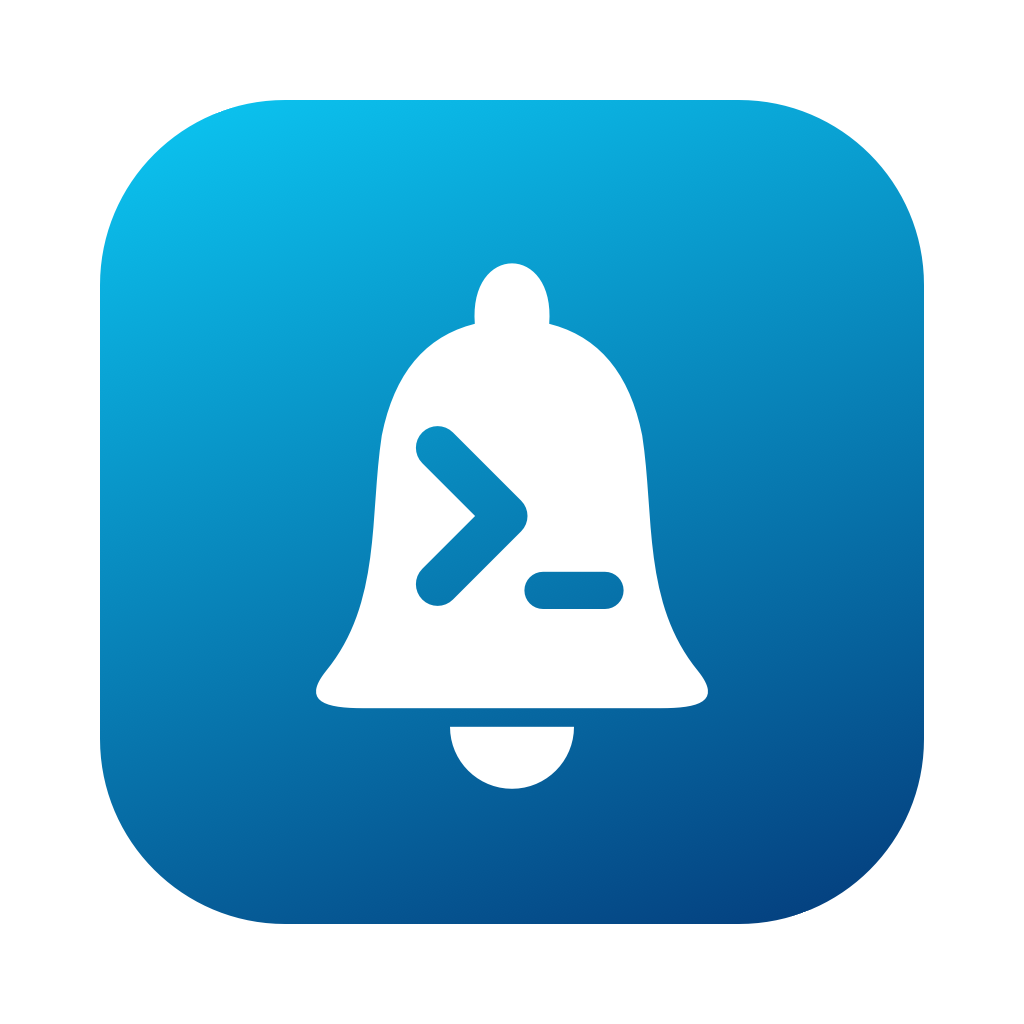
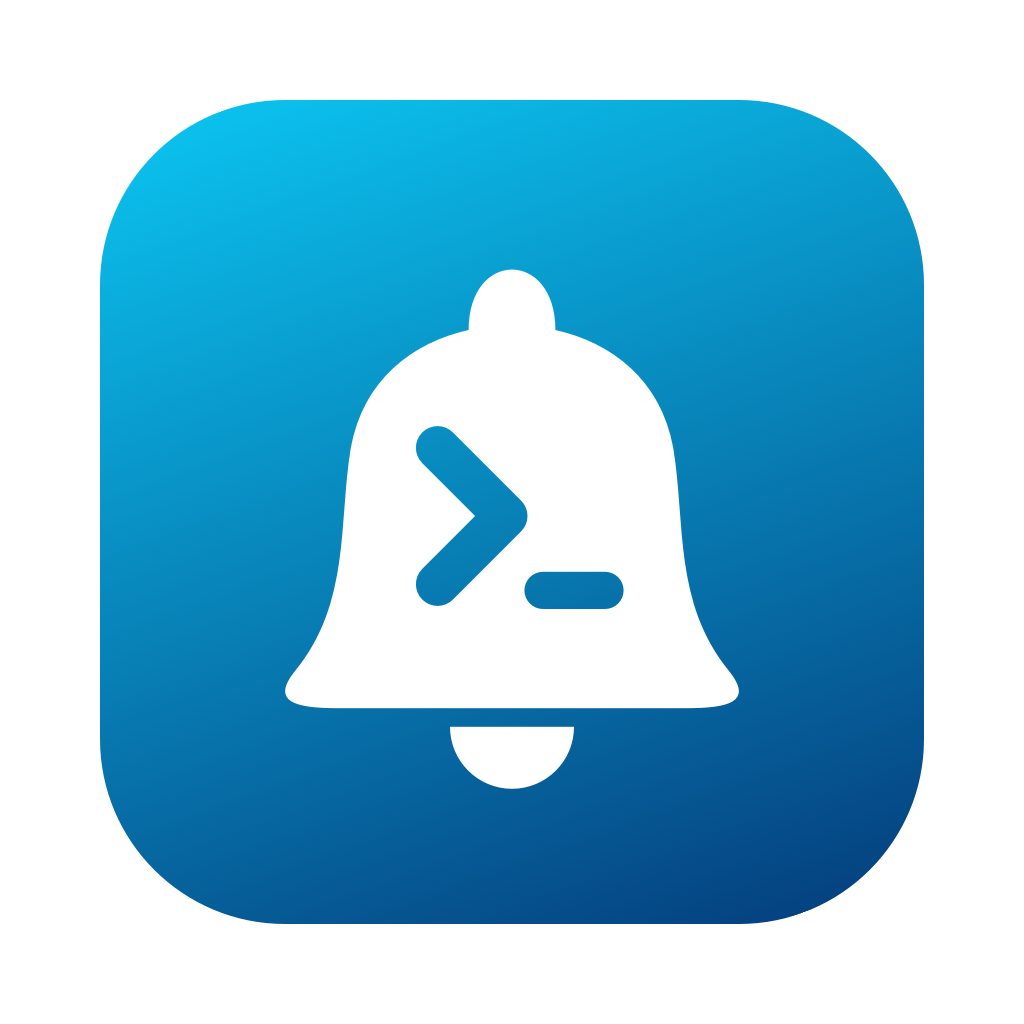
Integrate menu badge and improve Attention Center readability

diff --git a/native/AttentionCenter/AgentBell.swift b/native/AttentionCenter/AgentBell.swift
@@ -81,9 +81,14 @@ final class Model: ObservableObject {
         command(["return", text])
     }
 }
+private struct ContentHeightKey: PreferenceKey {
+    static var defaultValue: CGFloat = 100
+    static func reduce(value: inout CGFloat, nextValue: () -> CGFloat) { value = nextValue() }
+}
 struct AttentionView: View {
     @ObservedObject var model: Model
     @State private var showMore = false
+    @State private var contentHeight: CGFloat = 100
     var close: () -> Void
     func age(_ value: String) -> String {
         let f = ISO8601DateFormatter(); f.formatOptions = [.withInternetDateTime, .withFractionalSeconds]
@@ -94,77 +99,106 @@ struct AttentionView: View {
         if seconds < 86400 { return "\(seconds / 3600)h" }
         return "\(seconds / 86400)d"
     }
+    func visibleSummary(_ session: Session) -> String {
+        let summary = session.summary.trimmingCharacters(in: .whitespacesAndNewlines)
+        if summary == "Claude is waiting for your input" || summary == "Codex is waiting for your input" || summary == session.label { return "" }
+        return summary
+    }
     @ViewBuilder func section(_ name: String, _ sessions: [Session]) -> some View {
         HStack {
-            Text(name).tracking(0.8)
+            Text(name).tracking(0.6)
             Spacer()
             Text("\(sessions.count)").monospacedDigit()
-        }.font(.system(size: 10, weight: .semibold)).foregroundColor(.secondary).padding(.top, 7).accessibilityAddTraits(.isHeader)
+        }.font(.system(size: 11, weight: .semibold)).foregroundColor(.primary.opacity(0.65)).padding(.top, 9).padding(.bottom, 3).accessibilityAddTraits(.isHeader)
         ForEach(sessions) { session in
-            HStack(alignment: .top, spacing: 9) {
-                Image(systemName: session.symbol).foregroundColor(session.attention == "none" ? .secondary : .orange).frame(width: 14).padding(.top, 3).accessibilityHidden(true)
-                VStack(alignment: .leading, spacing: 3) {
-                    Text(session.project).font(.system(size: 13, weight: .medium)).lineLimit(1)
-                    Text("\(session.agent == "claude" ? "Claude" : "Codex") · \(session.label) · \(age(session.attention_at ?? session.finished_at ?? session.started_at))")
-                        .font(.caption).foregroundColor(.secondary)
-                    if !session.summary.isEmpty { Text(session.summary).font(.caption).foregroundColor(.secondary).lineLimit(2) }
-                }.frame(maxWidth: .infinity, alignment: .leading)
-                if let target = session.return_target {
-                    Button { model.returnTo(target); close() } label: {
-                        HStack(spacing: 3) { Text("Return"); Image(systemName: "arrow.up.forward") }
-                            .font(.system(size: 11, weight: .medium)).padding(.horizontal, 7).padding(.vertical, 5)
-                            .background(Color.primary.opacity(0.055), in: RoundedRectangle(cornerRadius: 6))
-                    }.buttonStyle(.plain)
-                        .help(target.capability == "exact_context" ? "Return to this session" : "Return capability: \(target.capability)")
-                        .accessibilityLabel("Return to \(session.project), \(session.agent)")
+            VStack(alignment: .leading, spacing: 6) {
+                HStack(spacing: 8) {
+                    Image(systemName: session.symbol).font(.system(size: 14)).foregroundColor(session.attention == "none" ? .secondary : .orange).accessibilityHidden(true)
+                    Text(session.project).font(.system(size: 14, weight: .semibold)).foregroundColor(.primary).lineLimit(1)
+                    Spacer(minLength: 8)
+                    if let target = session.return_target {
+                        Button { model.returnTo(target); close() } label: {
+                            HStack(spacing: 4) { Text("Return"); Image(systemName: "arrow.up.forward") }
+                                .font(.system(size: 12, weight: .medium)).padding(.horizontal, 9).padding(.vertical, 5)
+                                .background(Color.primary.opacity(0.07), in: RoundedRectangle(cornerRadius: 6))
+                        }.buttonStyle(.plain)
+                            .help(target.capability == "exact_context" ? "Return to this session" : "Return capability: \(target.capability)")
+                            .accessibilityLabel("Return to \(session.project), \(session.agent)")
+                    }
                 }
-            }.padding(.vertical, 5)
+                Text("\(session.agent == "claude" ? "Claude" : "Codex") · \(session.label) · \(age(session.attention_at ?? session.finished_at ?? session.started_at))")
+                    .font(.system(size: 12)).foregroundColor(.primary.opacity(0.65))
+                if !visibleSummary(session).isEmpty {
+                    Text(visibleSummary(session)).font(.system(size: 13)).foregroundColor(.primary.opacity(0.88)).lineSpacing(3).lineLimit(3)
+                        .frame(maxWidth: .infinity, alignment: .leading)
+                }
+            }.padding(10).frame(maxWidth: .infinity, alignment: .leading)
+                .background(Color.primary.opacity(0.035), in: RoundedRectangle(cornerRadius: 9))
         }
+    }
+    var header: some View {
+        HStack {
+            Text("AgentBell").font(.system(size: 15, weight: .semibold))
+            Spacer()
+        }
+    }
+    var sessionList: some View {
+        ScrollView {
+            VStack(alignment: .leading, spacing: 5) {
+                if !model.state.needs_you.isEmpty { section("NEEDS YOU", model.state.needs_you) }
+                if !model.state.working.isEmpty { section("WORKING", model.state.working) }
+                if !model.state.recent.isEmpty { section("RECENT", Array(model.state.recent.prefix(showMore ? model.state.recent.count : (model.state.recent_limit ?? 5)))) }
+                if model.state.needs_you.isEmpty && model.state.working.isEmpty && model.state.recent.isEmpty {
+                    VStack(spacing: 7) {
+                        Image(systemName: "checkmark.circle").font(.system(size: 23))
+                        Text("All caught up").font(.system(size: 13, weight: .medium))
+                        Text("Your agents will appear here as they work.").font(.caption)
+                    }.foregroundColor(.secondary).frame(maxWidth: .infinity).padding(.vertical, 25)
+                }
+                if model.state.recent.count > (model.state.recent_limit ?? 5) { Button(showMore ? "Show Less" : "Show More") { showMore.toggle() }.buttonStyle(.link) }
+            }.frame(maxWidth: .infinity, alignment: .leading)
+                .background(GeometryReader { geometry in
+                    Color.clear.preference(key: ContentHeightKey.self, value: geometry.size.height)
+                })
+        }.frame(height: min(390, max(100, contentHeight)))
+            .onPreferenceChange(ContentHeightKey.self) { contentHeight = $0 }
+    }
+    @ViewBuilder var diagnostics: some View {
+        if let error = model.failure { Text(error).font(.caption).foregroundColor(.secondary).lineLimit(3) }
+        if let error = model.notificationFailure { Text(error).font(.caption).foregroundColor(.secondary).lineLimit(3) }
+        if let error = model.state.storage_error, !error.isEmpty { Text("Session history unavailable").font(.caption).help(error) }
+    }
+    var footer: some View {
+        HStack {
+            Button { model.command(["attention-control", model.state.paused ? "resume" : "pause"]) } label: {
+                Image(systemName: model.state.paused ? "bell.slash" : "bell").font(.system(size: 14)).frame(width: 24, height: 24)
+            }.buttonStyle(.plain)
+                .help(model.state.paused ? "Resume notifications" : "Pause notifications")
+                .accessibilityLabel(model.state.paused ? "Resume notifications" : "Pause notifications")
+            Spacer()
+            Menu {
+                Button(model.state.paused ? "Resume Notifications" : "Pause Notifications") { model.command(["attention-control", model.state.paused ? "resume" : "pause"]) }
+                Button("Clear Recent") { model.command(["attention-control", "clear_recent"]) }.disabled(model.state.recent.isEmpty)
+                Divider()
+                Button("Open Config…") { model.command(["open-config"]) }
+                Button("Quit AgentBell") { NSApp.terminate(nil) }.keyboardShortcut("q")
+            } label: { Image(systemName: "gearshape").font(.system(size: 14)).frame(width: 24, height: 24) }
+            .menuStyle(.borderlessButton).menuIndicator(.hidden).fixedSize().help("AgentBell actions").accessibilityLabel("AgentBell actions")
+        }.font(.system(size: 11)).foregroundColor(.secondary).padding(.top, 3)
     }
     var body: some View {
         TimelineView(.periodic(from: .now, by: 15)) { _ in
             VStack(alignment: .leading, spacing: 6) {
-                HStack {
-                    Text("AgentBell").font(.headline)
-                    Spacer()
-                    if !model.state.needs_you.isEmpty { Text("\(model.state.needs_you.count) need you").font(.caption).foregroundColor(.secondary) }
-                }
+                header
                 Divider()
-                ScrollView {
-                    VStack(alignment: .leading, spacing: 5) {
-                        if !model.state.needs_you.isEmpty { section("NEEDS YOU", model.state.needs_you) }
-                        if !model.state.working.isEmpty { section("WORKING", model.state.working) }
-                        if !model.state.recent.isEmpty { section("RECENT", Array(model.state.recent.prefix(showMore ? model.state.recent.count : (model.state.recent_limit ?? 5)))) }
-                        if model.state.needs_you.isEmpty && model.state.working.isEmpty && model.state.recent.isEmpty {
-                            VStack(spacing: 7) {
-                                Image(systemName: "checkmark.circle").font(.system(size: 23))
-                                Text("All caught up").font(.system(size: 13, weight: .medium))
-                                Text("Your agents will appear here as they work.").font(.caption)
-                            }.foregroundColor(.secondary).frame(maxWidth: .infinity).padding(.vertical, 25)
-                        }
-                        if model.state.recent.count > (model.state.recent_limit ?? 5) { Button(showMore ? "Show Less" : "Show More") { showMore.toggle() }.buttonStyle(.link) }
-                    }.frame(maxWidth: .infinity, alignment: .leading)
-                }.frame(height: min(390, max(105, CGFloat(model.state.needs_you.count + model.state.working.count + min(model.state.recent.count, showMore ? model.state.recent.count : (model.state.recent_limit ?? 5))) * 91 + CGFloat([model.state.needs_you, model.state.working, model.state.recent].filter { !$0.isEmpty }.count) * 23)))
+                sessionList
                 Divider()
-                if let error = model.failure { Text(error).font(.caption).foregroundColor(.secondary).lineLimit(3) }
-                if let error = model.notificationFailure { Text(error).font(.caption).foregroundColor(.secondary).lineLimit(3) }
-                if let error = model.state.storage_error, !error.isEmpty { Text("Session history unavailable").font(.caption).help(error) }
-                HStack {
-                    Image(systemName: model.state.paused ? "bell.slash" : "bell")
-                    Text(model.state.paused ? "Notifications paused" : "Notifications on")
-                    Spacer()
-                    Menu {
-                        Button(model.state.paused ? "Resume Notifications" : "Pause Notifications") { model.command(["attention-control", model.state.paused ? "resume" : "pause"]) }
-                        Button("Clear Recent") { model.command(["attention-control", "clear_recent"]) }.disabled(model.state.recent.isEmpty)
-                        Divider()
-                        Button("Open Config…") { model.command(["open-config"]) }
-                        Button("Quit AgentBell") { NSApp.terminate(nil) }.keyboardShortcut("q")
-                    } label: { Image(systemName: "ellipsis.circle").font(.system(size: 16)) }
-                    .menuStyle(.borderlessButton).fixedSize().help("AgentBell actions")
-                }.font(.system(size: 11)).foregroundColor(.secondary).padding(.top, 3)
-            }.padding(14).frame(width: 360).onExitCommand { close() }
+                diagnostics
+                footer
+            }.padding(14).frame(width: 380).onExitCommand { close() }
         }
     }
+
 }
 final class AppDelegate: NSObject, NSApplicationDelegate, UNUserNotificationCenterDelegate {
     let model = Model()
@@ -227,10 +261,10 @@ final class AppDelegate: NSObject, NSApplicationDelegate, UNUserNotificationCent
     func refresh() {
         let count = model.state.needs_you.count
         if popover.isShown { markRecentSeen() }
-        statusItem.button?.image = BellIcon.menu(paused: model.state.paused)
+        statusItem.button?.image = BellIcon.menu(paused: model.state.paused, count: count, unread: hasUnseenCompletion)
         statusItem.button?.imagePosition = .imageLeading
         statusItem.button?.font = .monospacedDigitSystemFont(ofSize: 12, weight: .semibold)
-        statusItem.button?.title = count > 0 ? " \(count)" : (hasUnseenCompletion ? " •" : "")
+        statusItem.button?.title = ""
         statusItem.button?.toolTip = count > 0 ? "\(count) sessions need you" : (hasUnseenCompletion ? "New completed sessions" : "AgentBell")
         statusItem.button?.setAccessibilityLabel("AgentBell, \(count) sessions need you\(model.state.paused ? ", notifications paused" : "")")
     }

diff --git a/native/AttentionCenter/BellIcon.swift b/native/AttentionCenter/BellIcon.swift
@@ -9,15 +9,15 @@ enum BellIcon {
         context.scaleBy(x: rect.width / 100, y: rect.height / 100)
         color.setFill()
         let bell = NSBezierPath()
-        bell.move(to: NSPoint(x: 20, y: 25))
-        bell.curve(to: NSPoint(x: 29, y: 63), controlPoint1: NSPoint(x: 29, y: 36), controlPoint2: NSPoint(x: 27, y: 50))
-        bell.curve(to: NSPoint(x: 44, y: 81), controlPoint1: NSPoint(x: 31, y: 73), controlPoint2: NSPoint(x: 36, y: 79))
-        bell.curve(to: NSPoint(x: 56, y: 81), controlPoint1: NSPoint(x: 43, y: 94), controlPoint2: NSPoint(x: 57, y: 94))
-        bell.curve(to: NSPoint(x: 71, y: 63), controlPoint1: NSPoint(x: 64, y: 79), controlPoint2: NSPoint(x: 69, y: 73))
-        bell.curve(to: NSPoint(x: 80, y: 25), controlPoint1: NSPoint(x: 73, y: 50), controlPoint2: NSPoint(x: 71, y: 36))
-        bell.curve(to: NSPoint(x: 74, y: 19), controlPoint1: NSPoint(x: 84, y: 20), controlPoint2: NSPoint(x: 80, y: 19))
-        bell.line(to: NSPoint(x: 26, y: 19))
-        bell.curve(to: NSPoint(x: 20, y: 25), controlPoint1: NSPoint(x: 20, y: 19), controlPoint2: NSPoint(x: 16, y: 20))
+        bell.move(to: NSPoint(x: 15, y: 25))
+        bell.curve(to: NSPoint(x: 24, y: 61), controlPoint1: NSPoint(x: 24, y: 36), controlPoint2: NSPoint(x: 22, y: 49))
+        bell.curve(to: NSPoint(x: 43, y: 80), controlPoint1: NSPoint(x: 26, y: 72), controlPoint2: NSPoint(x: 34, y: 78))
+        bell.curve(to: NSPoint(x: 57, y: 80), controlPoint1: NSPoint(x: 43, y: 93), controlPoint2: NSPoint(x: 57, y: 93))
+        bell.curve(to: NSPoint(x: 76, y: 61), controlPoint1: NSPoint(x: 66, y: 78), controlPoint2: NSPoint(x: 74, y: 72))
+        bell.curve(to: NSPoint(x: 85, y: 25), controlPoint1: NSPoint(x: 78, y: 49), controlPoint2: NSPoint(x: 76, y: 36))
+        bell.curve(to: NSPoint(x: 78, y: 19), controlPoint1: NSPoint(x: 89, y: 20), controlPoint2: NSPoint(x: 85, y: 19))
+        bell.line(to: NSPoint(x: 22, y: 19))
+        bell.curve(to: NSPoint(x: 15, y: 25), controlPoint1: NSPoint(x: 15, y: 19), controlPoint2: NSPoint(x: 11, y: 20))
         bell.close(); bell.fill()
         let clapper = NSBezierPath()
         clapper.appendArc(withCenter: NSPoint(x: 50, y: 16), radius: 10, startAngle: 180, endAngle: 360)
@@ -31,15 +31,38 @@ enum BellIcon {
         cursor.move(to: NSPoint(x: 55, y: 38)); cursor.line(to: NSPoint(x: 65, y: 38)); cursor.stroke()
         context.restoreGState()
     }
-    static func menu(paused: Bool) -> NSImage {
-        // Render eagerly: a status item's image must not depend on mutable model state.
-        let image = NSImage(size: NSSize(width: 20, height: 20))
-        image.lockFocus(); draw(in: NSRect(x: 0, y: 0, width: 20, height: 20), color: .black)
+    static func menu(paused: Bool, count: Int, unread: Bool) -> NSImage {
+        // Bell and badge share one fixed-size template image and one status item.
+        let image = NSImage(size: NSSize(width: 28, height: 24))
+        image.lockFocus()
+        draw(in: NSRect(x: 0, y: 0, width: 25, height: 24), color: .black)
         if paused {
             NSColor.black.setStroke()
             let slash = NSBezierPath(); slash.lineWidth = 1.3
-            slash.move(to: NSPoint(x: 2, y: 18)); slash.line(to: NSPoint(x: 18, y: 2)); slash.stroke()
+            slash.move(to: NSPoint(x: 3, y: 21)); slash.line(to: NSPoint(x: 23, y: 3)); slash.stroke()
         }
+        let context = NSGraphicsContext.current!.cgContext
+        if count > 0 {
+            let text = count > 99 ? "99+" : String(count)
+            let width: CGFloat = count > 99 ? 17 : (count > 9 ? 14 : 12)
+            let badge = NSRect(x: 28 - width, y: 12, width: width, height: 12)
+            context.setBlendMode(.destinationOut)
+            NSColor.black.setFill()
+            NSBezierPath(roundedRect: badge.insetBy(dx: -1.2, dy: -1.2), xRadius: 7, yRadius: 7).fill()
+            context.setBlendMode(.normal)
+            NSBezierPath(roundedRect: badge, xRadius: 6, yRadius: 6).fill()
+            context.setBlendMode(.destinationOut)
+            let attributes: [NSAttributedString.Key: Any] = [.font: NSFont.monospacedDigitSystemFont(ofSize: count > 99 ? 7 : 9, weight: .bold), .foregroundColor: NSColor.black]
+            let label = NSAttributedString(string: text, attributes: attributes)
+            let size = label.size()
+            label.draw(at: NSPoint(x: badge.midX - size.width / 2, y: badge.midY - size.height / 2))
+        } else if unread {
+            context.setBlendMode(.destinationOut)
+            NSColor.black.setFill(); NSBezierPath(ovalIn: NSRect(x: 19, y: 16, width: 8, height: 8)).fill()
+            context.setBlendMode(.normal)
+            NSBezierPath(ovalIn: NSRect(x: 20.5, y: 17.5, width: 5, height: 5)).fill()
+        }
+        context.setBlendMode(.normal)
         image.unlockFocus(); image.isTemplate = true
         return image
     }

diff --git a/docs/RELEASE_ACCEPTANCE_V04.md b/docs/RELEASE_ACCEPTANCE_V04.md
@@ -120,3 +120,19 @@ UNErrorDomain error 1; permission and actual delivery require real verification.
 Previous CI run 37273978536 covers the preceding candidate only. The new revision
 requires another arm64 / Intel CI run and renewed manual visual acceptance.
 No release tag, GitHub Release, or Homebrew publication has occurred.
+
+### Second visual feedback revision
+
+The user rejected the narrow bell, adjacent number, weak content hierarchy,
+redundant footer status text, and combined ellipsis/dropdown affordance. The
+revised menu glyph has wider shoulders and an integrated numeric corner badge;
+unseen Done uses a corner dot. The popover now uses higher-contrast card text,
+full-width summaries, measured content height, no repeated generic input summary,
+and icon-only notification/gear controls with tooltips and accessibility labels.
+The gear menu hides its dropdown indicator.
+
+Run 37308742353 failed on the arm64 runner's Swift compiler type-check timeout in
+the previous large SwiftUI body expression. The new layout splits header, list,
+diagnostics and footer into independent expressions and removes the manual
+height arithmetic. Both architectures must pass the next remote run. Visual
+acceptance remains pending on the actual user sessions.
